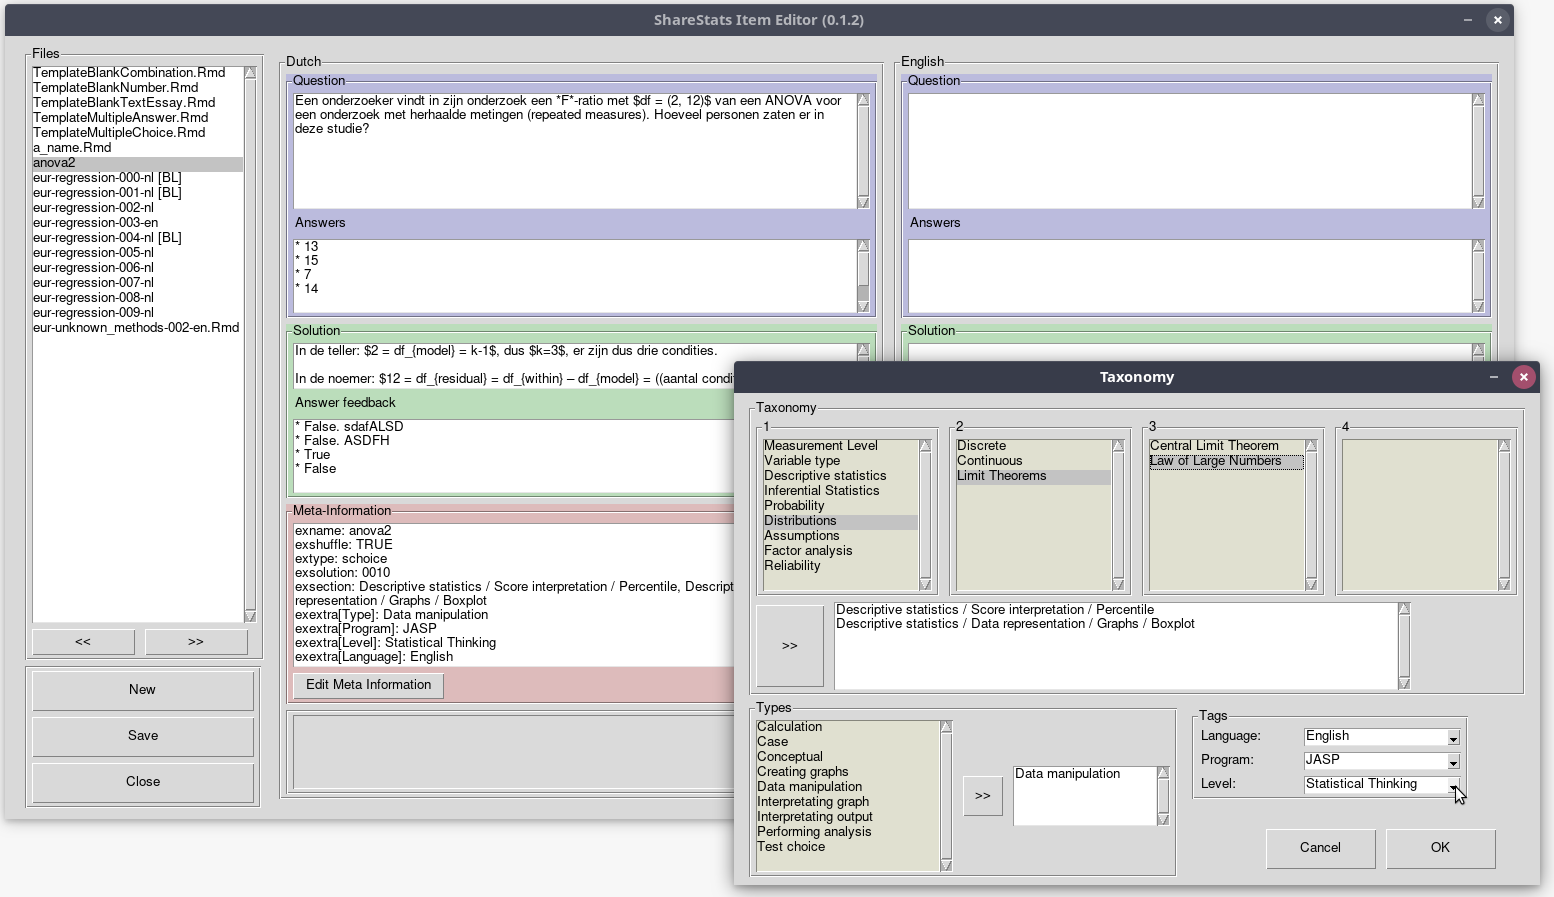
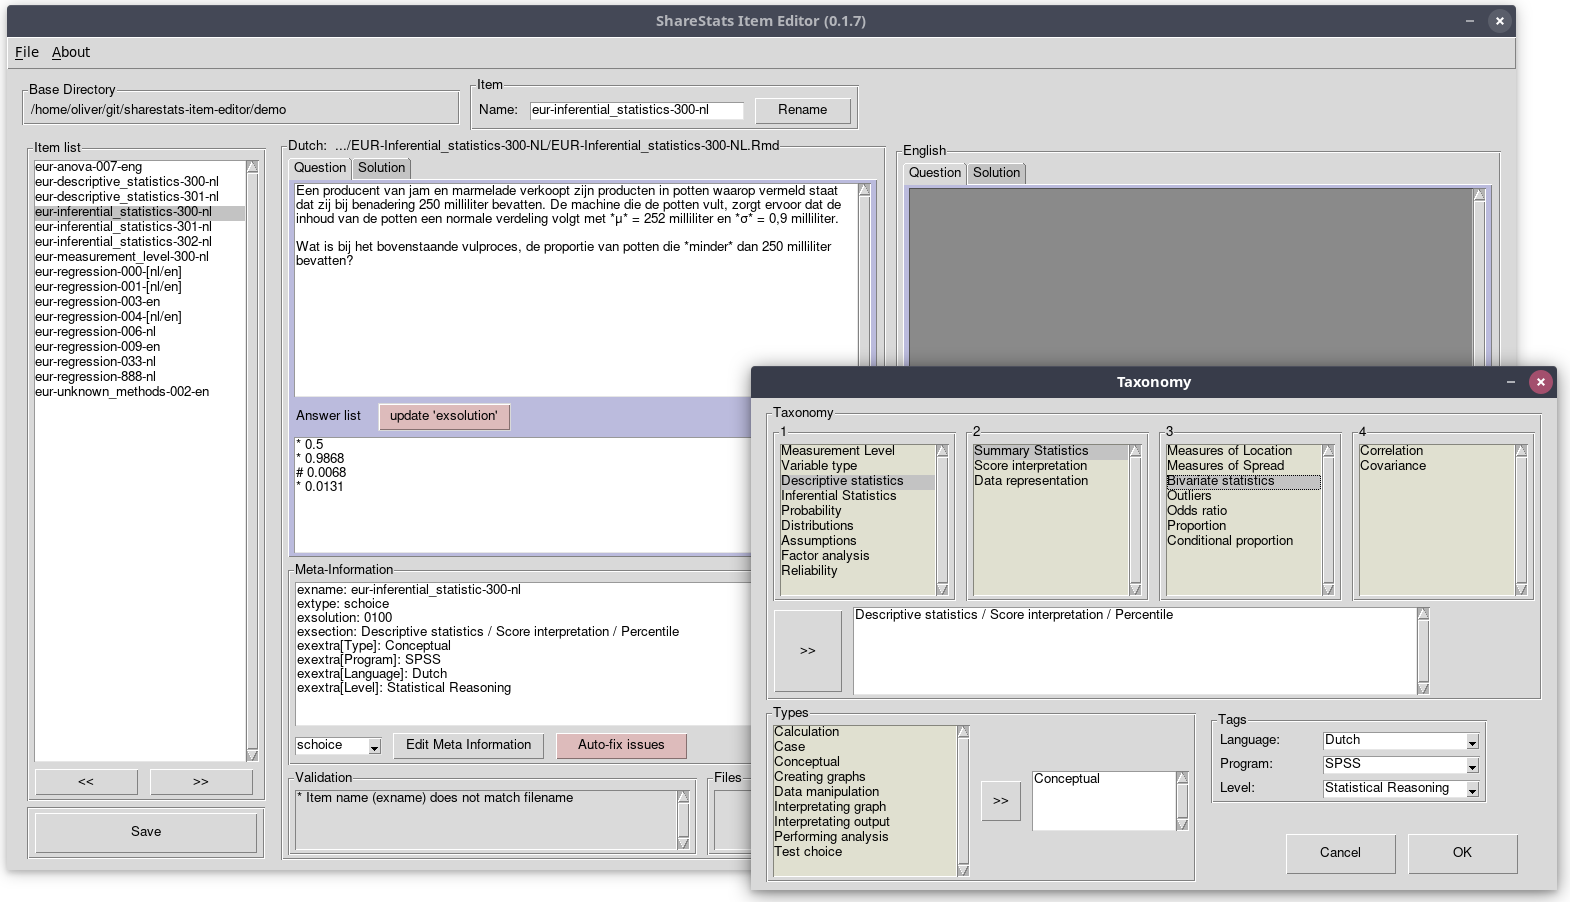
updates

diff --git a/sharestats_item_editor/item_gui.py b/sharestats_item_editor/item_gui.py
@@ -1,4 +1,4 @@
-from os import listdir
+from os import listdir, path
 import PySimpleGUI as sg
 
 from . import consts
@@ -18,7 +18,7 @@ _EMPTY_ITEM = ShareStatsItem(None)
 
 class ItemGUI(object):
 
-    def __init__(self, key_prefix):
+    def __init__(self, label, key_prefix):
 
         if TAB_LAYOUT:
             len_ml = LEN_ML_LARGE
@@ -26,6 +26,10 @@ class ItemGUI(object):
         else:
             len_ml = LEN_ML_SMALL
             len_answer = LEN_ANSWER_SMALL
+
+        self.label =label
+        self.key_prefix = key_prefix
+        self._ss_item = None
 
         self.ml_quest = sg.Multiline(default_text="",
                                      size=(WIDTH_ML, len_ml), enable_events=True,
@@ -87,7 +91,46 @@ class ItemGUI(object):
                                             size=(15,1),
                     key="{}_btn_fix_meta_issues".format(key_prefix))
 
-        self._ss_item = None
+        # make main frame
+        layout_question =[[self.ml_quest],
+                        [self.txt_answer_list, self.btn_add_answer_list,
+                         self.btn_update_exsolution],
+                        [self.ml_answer]]
+
+        layout_solution = [[self.ml_solution],
+                        [self.txt_solution_answ_lst, self.btn_add_feedback_list],
+                        [self.ml_solution_answ_lst]]
+
+        layout_meta_info =  [[self.ml_metainfo],
+                        [self.dd_types, self.btn_change_meta,
+                         self.btn_fix_meta_issues]]
+
+        if TAB_LAYOUT:
+            tab_group = sg.TabGroup([[sg.Tab("Question", layout_question,
+                                             background_color=consts.COLOR_QUEST,
+                                             key="{}_tab_quest".format(
+                                                 self.key_prefix)),
+                                      sg.Tab("Solution", layout_solution,
+                                             background_color=consts.COLOR_SOLUTION,
+                                             key="{}_tab_sol".format(
+                                                 self.key_prefix))
+                                      ]])
+            self.main_frame = sg.Frame(self.label, [
+                   [tab_group],
+                   [sg.Frame("Meta-Information", layout_meta_info)],
+                   [sg.Frame("Validation", [[self.ml_info_validation]]),
+                    sg.Frame("Files", [[self.ml_files]])]
+            ])
+        else:
+            self.main_frame = sg.Frame(self.label, [
+                   [sg.Frame("Question", layout_question ,
+                             background_color=consts.COLOR_QUEST)],
+                   [sg.Frame("Solution (feedback)", layout_solution,
+                             background_color=consts.COLOR_SOLUTION)],
+                    [sg.Frame("Meta-Information", layout_meta_info,
+                              background_color=consts.COLOR_META_INFO)],
+                    [sg.Frame("", [[self.ml_info_validation]])]
+            ])
 
     @property
     def ss_item(self):
@@ -152,49 +195,6 @@ class ItemGUI(object):
         self.ml_info_validation(value=txt)
         self.btn_fix_meta_issues.update(visible=auto_fix)
 
-    def get_frame(self, heading):
-        layout_question =[[self.ml_quest],
-                        [self.txt_answer_list, self.btn_add_answer_list,
-                         self.btn_update_exsolution],
-                        [self.ml_answer]]
-
-        layout_solution = [[self.ml_solution],
-                        [self.txt_solution_answ_lst, self.btn_add_feedback_list],
-                        [self.ml_solution_answ_lst]]
-
-        layout_meta_info =  [[self.ml_metainfo],
-                        [self.dd_types, self.btn_change_meta,
-                         self.btn_fix_meta_issues]]
-
-        if TAB_LAYOUT:
-            tab_group = sg.TabGroup([[sg.Tab("Question", layout_question,
-                                             background_color=consts.COLOR_QUEST,
-                                             key="tab_quest_{}".format(
-                                                 heading)),
-                                      sg.Tab("Solution", layout_solution,
-                                             background_color=consts.COLOR_SOLUTION,
-                                             key="tab_sol_{}".format(heading))
-                                      ]])
-            return sg.Frame(heading, [
-                   [tab_group],
-                   [sg.Frame("Meta-Information", layout_meta_info)],
-                   [sg.Frame("Validation", [[self.ml_info_validation]]),
-                    sg.Frame("Files", [[self.ml_files]])]
-            ])
-
-
-        else:
-            return sg.Frame(heading, [
-                   [sg.Frame("Question", layout_question ,
-                             background_color=consts.COLOR_QUEST)],
-                   [sg.Frame("Solution (feedback)", layout_solution,
-                             background_color=consts.COLOR_SOLUTION)],
-                    [sg.Frame("Meta-Information", layout_meta_info,
-                              background_color=consts.COLOR_META_INFO)],
-                    [sg.Frame("", [[self.ml_info_validation]])]
-            ])
-
-
     def as_markdown_file(self):
         rtn = _EMPTY_ITEM.question.str_markdown_heading
         rtn += self.ml_quest.get().strip() + "\n\n"
@@ -232,6 +232,12 @@ class ItemGUI(object):
             item = _EMPTY_ITEM
         else:
             item = self.ss_item
+
+        fl_info = path.join(path.split(item.filename.directory)[1],
+                            item.filename.filename)
+        if len(fl_info):
+            fl_info = ":  ..." + path.sep + fl_info
+        self.main_frame.update(value=self.label + fl_info)
 
         self.ml_quest.update(value=item.question.str_text)
         self.ml_solution.update(value=item.solution.str_text)

diff --git a/sharestats_item_editor/mainwin.py b/sharestats_item_editor/mainwin.py
@@ -13,8 +13,8 @@ class MainWin(object):
         sg.theme(consts.COLOR_THEME)
 
         # LAYOUT
-        self.ig_nl = ItemGUI("nl")
-        self.ig_en = ItemGUI("en")
+        self.ig_nl = ItemGUI("Dutch", "nl")
+        self.ig_en = ItemGUI("English", "en")
 
         self.lb_items = sg.Listbox(values=[], enable_events=True,
                                    key="lb_files", size=(30, 40))
@@ -28,14 +28,14 @@ class MainWin(object):
                                   disabled=True, key="save")
 
         self.txt_base_directory = sg.Text(self.base_directory, size=(60, 1))
-        top_frame = sg.Frame("Item Directory",
+        fr_base_dir = sg.Frame("Base Directory",
                              [[self.txt_base_directory]])
 
         self.it_name = sg.InputText("", size=(30, 1), disabled=False,
                                     key="it_name", enable_events=False)
-
-        top_frame2 = sg.Frame("Item Name",
-                             [[self.it_name,
+        fr_item_name = sg.Frame("Item",
+                             [[sg.Text("Name:"),
+                              self.it_name,
                               sg.Button(button_text="Rename", size=(10, 1),
                                         key="rename")]])
 
@@ -47,10 +47,10 @@ class MainWin(object):
                             tearoff=False)
         self.layout = [
                   [self.menu],
-                  [top_frame, top_frame2],
+                  [fr_base_dir, fr_item_name],
                   [left_frame,
-                   self.ig_nl.get_frame("Dutch"),
-                   self.ig_en.get_frame("English")]]
+                   self.ig_nl.main_frame,
+                   self.ig_en.main_frame]]
 
         self.fl_list_bilingual = files.FileListBilingual()
         self._unsaved_item = None
@@ -181,6 +181,7 @@ class MainWin(object):
 
                 if event.endswith("dd_types"):
                     ig.ss_item.meta_info.type = values[event]
+                    ig.ss_item.meta_info.sort_parameter()
                     ig.update_gui()
 
                 elif event.endswith("btn_change_meta"):
@@ -189,6 +190,8 @@ class MainWin(object):
                         ig.ss_item.meta_info = new_meta
                         ig.ml_metainfo.update(value=new_meta.str_parameter +
                                                     new_meta.str_text)
+                        ig.ss_item.meta_info.sort_parameter()
+
 
                 elif event.endswith("btn_add_answer_list"):
                     ig.ss_item.question.add_answer_list_section()

diff --git a/sharestats_item_editor/files.py b/sharestats_item_editor/files.py
@@ -3,6 +3,7 @@ from os import path
 from .  import consts
 
 class ShareStatsFile(object):
+    CASE_SENSITIVE_NAMING = False
 
     def __init__(self, file_path):
         if file_path is None:
@@ -57,7 +58,10 @@ class ShareStatsFile(object):
                 return False
 
     def is_good_directory_name(self):
-        return self.name == path.split(self.directory)[1]
+        if ShareStatsFile.CASE_SENSITIVE_NAMING:
+            return self.name == path.split(self.directory)[1]
+        else:
+            return self.name == path.split(self.directory)[1].lower()
 
     def fix_directory_name(self, add_directory_level=False):
         # changes name of sub folder
@@ -72,7 +76,10 @@ class ShareStatsFile(object):
 
     @property
     def name(self):
-        return path.splitext(self.filename)[0]
+        if ShareStatsFile.CASE_SENSITIVE_NAMING:
+            return path.splitext(self.filename)[0]
+        else:
+            return path.splitext(self.filename)[0].lower()
 
     @name.setter
     def name(self, value):
@@ -103,7 +110,10 @@ class ShareStatsFile(object):
         if not isinstance(other, ShareStatsFile):
             return False
         else:
-            return self.full_path == other.full_path
+            if ShareStatsFile.CASE_SENSITIVE_NAMING:
+                return self.full_path == other.full_path
+            else:
+                return self.full_path.lower() == other.full_path.lower()
 
     def __str__(self):
         return str(self.full_path)

diff --git a/sharestats_item_editor/item_sections.py b/sharestats_item_editor/item_sections.py
@@ -189,6 +189,19 @@ class ItemMetaInfo(ItemSection):
         except:
             return ""
 
+    def sort_parameter(self):
+        # sorting parameter based on Templates (in place)
+        try:
+            req_para = templates.REQUIRED_PARAMETER[self.type].keys()
+        except:
+            return False
+
+        new_para = OrderedDict()
+        for k in req_para:
+            if k in self.parameter:
+                new_para[k] = self.parameter.pop(k)
+        new_para.update(self.parameter)
+        self.parameter = new_para
 
     @property
     def name(self):
@@ -262,8 +275,8 @@ class ItemMetaInfo(ItemSection):
 
     def get_missing_parameter(self):
         try:
-            paramter = templates.REQUIRED_PARAMETER[self.type]
+            parameter = templates.REQUIRED_PARAMETER[self.type]
         except:
             return {}
 
-        return {k: v for k, v in paramter.items() if k not in self.parameter}
+        return {k: v for k, v in parameter.items() if k not in self.parameter}

diff --git a/sharestats_item_editor/sharestats_item.py b/sharestats_item_editor/sharestats_item.py
@@ -1,5 +1,7 @@
 from os import path, rename
 import types
+from collections import OrderedDict
+
 
 from . import consts, templates
 from .item_sections import ItemSection, ItemMetaInfo
@@ -132,12 +134,11 @@ class ShareStatsItem(object):
 
         return issues
 
-
     def update_solution(self, solution_str):
         self.meta_info.solution = solution_str
+        self.meta_info.sort_parameter()
         if self.question.has_answer_list_section():
             self.question.answer_list.solution_str = solution_str
-
 
 # set global required_parameter after ShareStatsItem are defned
 def _get_required_parameter():
